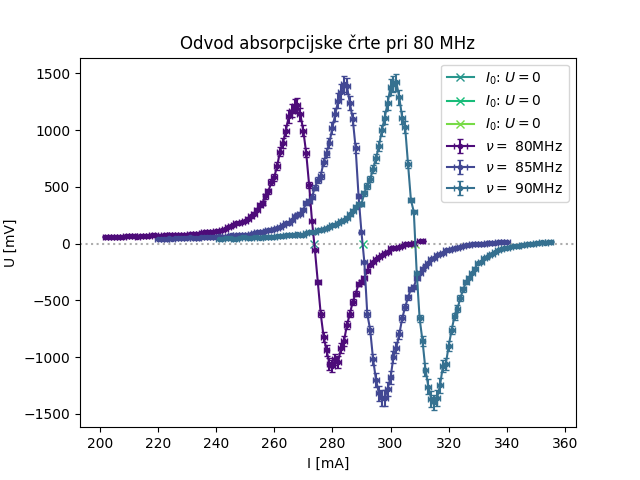
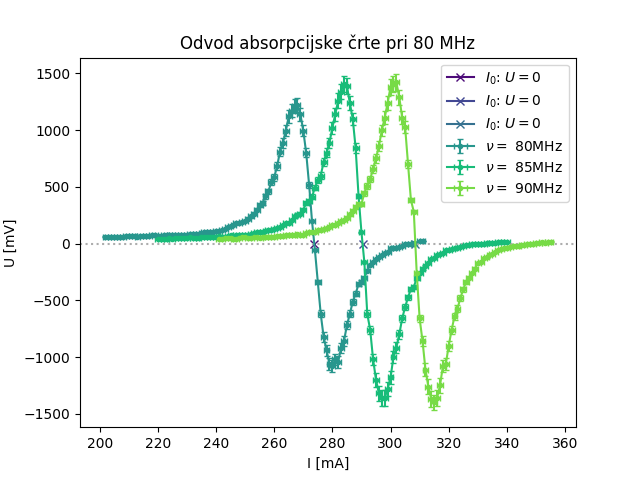
ESR: analysis finished, data in .org file, write up report

diff --git a/10esr/source/obdelovanje_10esr.py b/10esr/source/obdelovanje_10esr.py
@@ -73,7 +73,7 @@ def abs_crte(nu, I0, color):
     plt.errorbar(unp.nominal_values(tok), unp.nominal_values(volt),
                  xerr=unp.std_devs(tok), yerr=unp.std_devs(volt),
                  color=color[0], label=fr'$\nu =$ {nu}' + r'$\mathrm{MHz}$',
-                 marker='.', capsize=2, ls=None)
+                 marker='.', capsize=2, zorder=2)
     # putting it on top
     plt.plot(I0, 0, marker='x', label=r'$I_0$: $U = 0$', color=color[1], zorder=1)
 
@@ -86,14 +86,13 @@ frekv = [80, 85, 90]
 # Also funny number ^-^
 tokI0 = [273.75, 290.5, 308.5]
 
-barve = [(c1, d1), (c2, d2), (c3, d3)]
+barve = [(d1, c1), (d2, c2), (d3, c3)]
 
 vrednostB0 = np.ones(3)
 stdB0 = np.ones(3)
 
 for f, I, b, no in zip(frekv, tokI0, barve, range(0, 3)):
     temp = abs_crte(f, I, b)
-    print(temp)
     vrednostB0[no] = unp.nominal_values(temp)
     stdB0[no] = unp.std_devs(temp)
 
